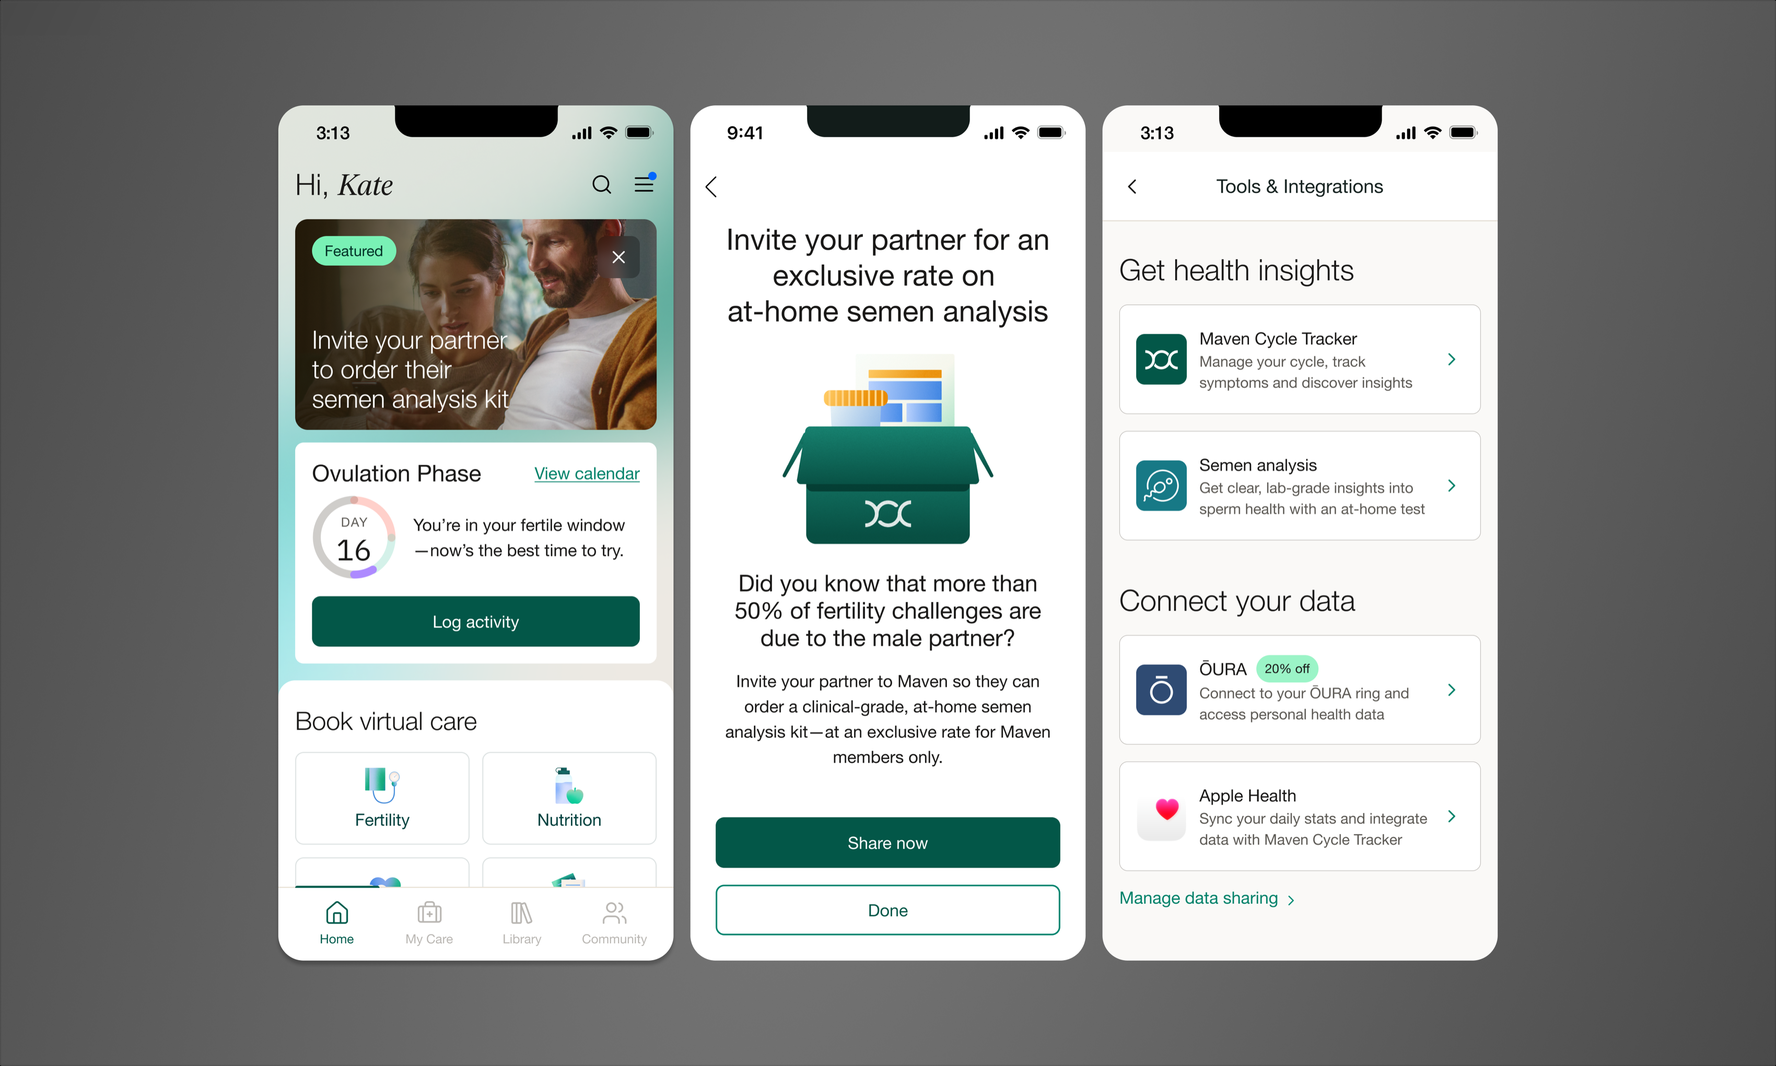
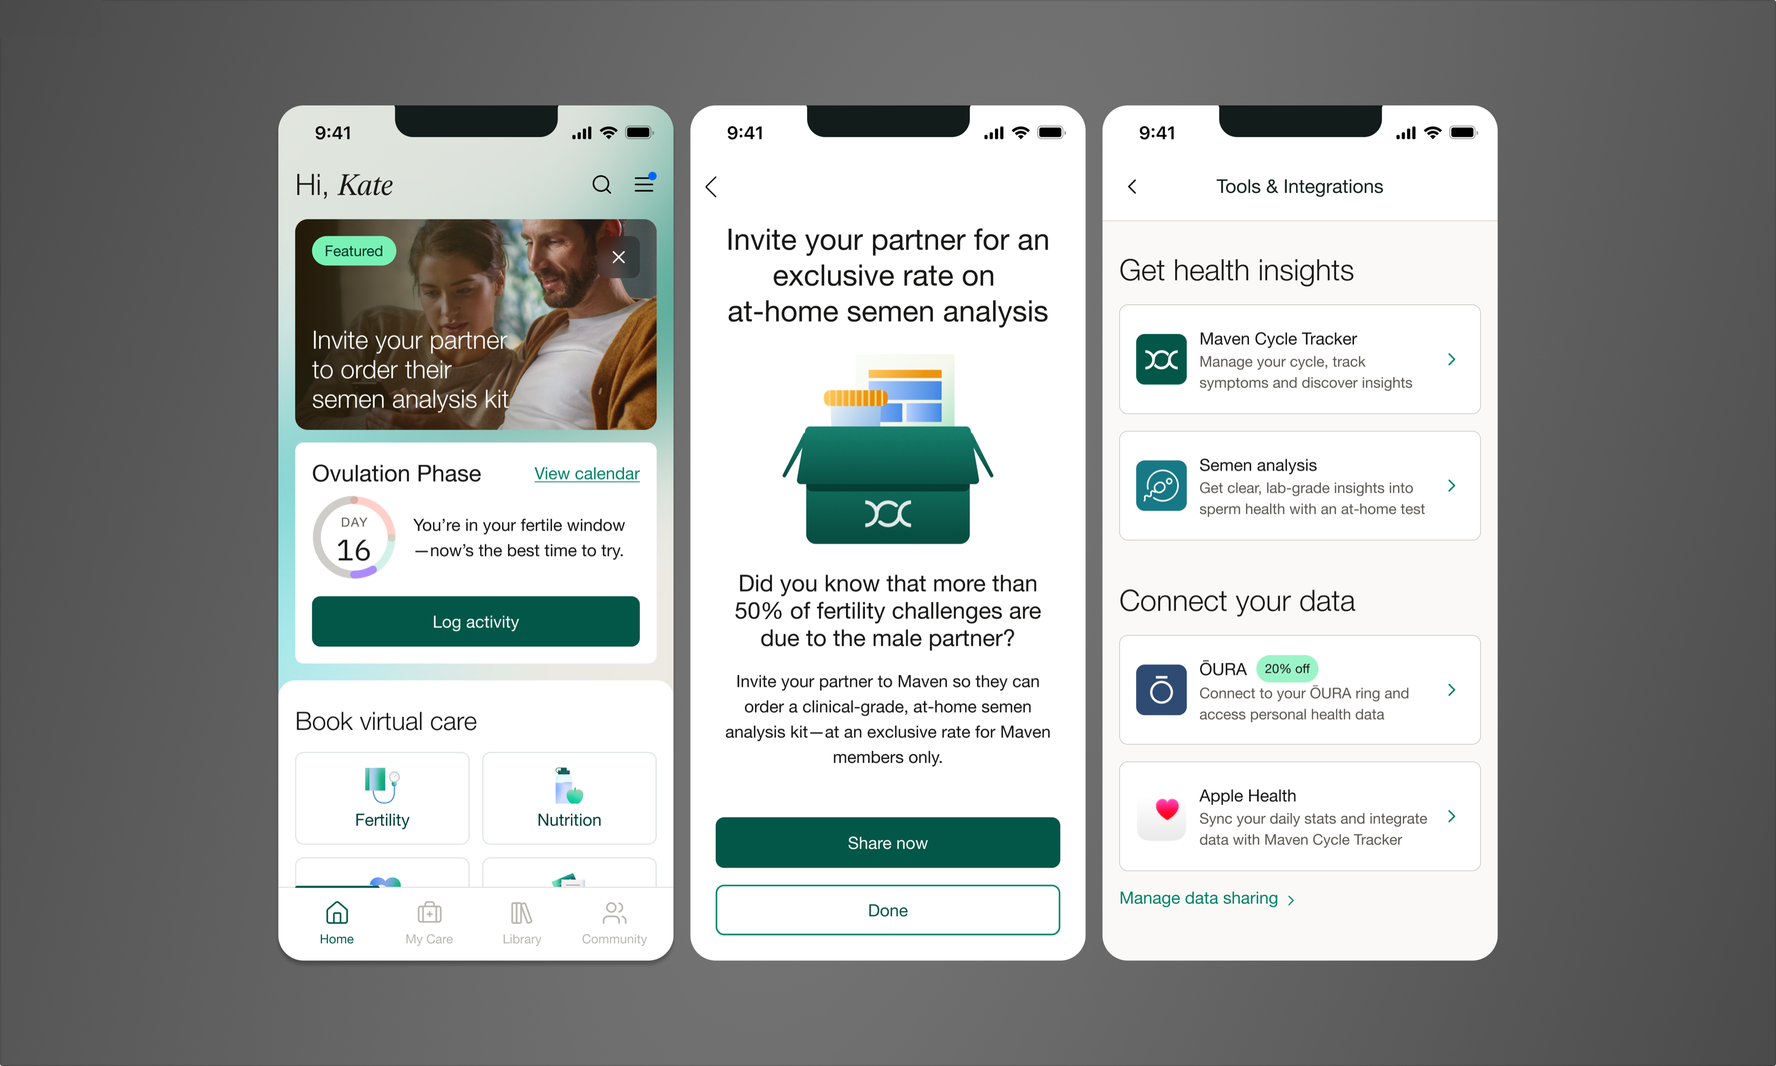
Content edits, new images, and semibold emphasis across case studies
- Support Chat: add inbox states image to Look and feel, remove Slack
  dogfooding and visual-direction paragraphs, semibold two key
  sentences (new .semibold utility, DM Sans 600 added to font import)
- Fertility Experience: rewrite Oura ovulation-status copy, add
  fertile-window calendar states image to Accuracy and sign-off,
  replace semen analysis image with updated export
- All case studies: drop timeframe from the hero subtitle (now shown
  in the stat block), replace remaining "member" references with
  "user" for consistent terminology

Changed region(s): [[0.6859, 0.0926, 0.7794, 0.1543], [0.2182, 0.0926, 0.3118, 0.1543]]

diff --git a/support-chat.html b/support-chat.html
@@ -10,7 +10,7 @@
 <link rel="apple-touch-icon" href="apple-touch-icon.png?v=2">
 <link rel="preconnect" href="https://fonts.googleapis.com">
 <link rel="preconnect" href="https://fonts.gstatic.com" crossorigin>
-<link href="https://fonts.googleapis.com/css2?family=DM+Sans:wght@400;500;700&family=IBM+Plex+Mono:wght@400;500&display=swap" rel="stylesheet">
+<link href="https://fonts.googleapis.com/css2?family=DM+Sans:wght@400;500;600;700&family=IBM+Plex+Mono:wght@400;500&display=swap" rel="stylesheet">
 <style>
   :root{
     --ink:#111111;
@@ -458,7 +458,7 @@
     <a class="cs-back" href="index.html#work">← Back to work</a>
     <span class="case-num">01</span>
     <h1>Support Chat</h1>
-    <p class="case-role">Maven Clinic · 2024–2025</p>
+    <p class="case-role">Maven Clinic</p>
     <div class="tags">
       <span class="tag">AI</span>
       <span class="tag">0→1</span>
@@ -484,13 +484,13 @@
       <p>Every support question, regardless of complexity, followed the same path: a user messaged their Care Advocate and waited. Simple questions like appointment booking or provider recommendations went through the same process as complex medical or financial ones.</p>
       <p>Behind the scenes, each message became a Zendesk ticket. The 24/7 support team triaged, tagged, escalated or self-assigned it, and replied using macros, often from someone other than the original Care Advocate. Response time ranged from under an hour to three business days.</p>
       <p>There was no self-serve option and no deflection. Every interaction depended on a human being available to pick it up, at a volume of 300,000+ tickets a year and rising. That drove up cost to serve and slowed response times even for the easy cases, while users increasingly wanted quick answers without a back-and-forth chat.</p>
-      <p>Maven had no existing model for how AI should handle conversations this trust-sensitive at this scale, but it was clearly the highest-impact opportunity to apply the technology.</p>
+      <p><span class="semibold">Maven had no existing model for how AI should handle conversations this trust-sensitive at this scale, but it was clearly the highest-impact opportunity to apply the technology.</span></p>
     </div>
     <div class="cs-section">
       <h2>Process</h2>
       <p>I led a cross-functional working group (Support, Engineering, Product, Clinical), where I tested early concepts against real scenarios before committing to a direction.</p>
       <p>From there I presented a 3-year north star vision to leadership. I then brought that vision back to what was buildable with our current design system, mapping which questions AI could resolve end-to-end versus which needed to route straight to a human based on topic.</p>
-      <div class="cs-img" style="aspect-ratio:2200/1517; margin:32px 0;"><img src="support-chat-process.png" data-full="support-chat-process-full.png" alt="Scenario walkthrough of Camilla, a Maven member with a newborn, using Support Chat: dashboard notification, message inbox, live chat modal, AI scanning her message and sending a relevant resource, and the live chat conversation"></div>
+      <div class="cs-img" style="aspect-ratio:2200/1517; margin:32px 0;"><img src="support-chat-process.png" data-full="support-chat-process-full.png" alt="Scenario walkthrough of Camilla, a Maven user with a newborn, using Support Chat: dashboard notification, message inbox, live chat modal, AI scanning her message and sending a relevant resource, and the live chat conversation"></div>
       <p>In parallel, engineering was evaluating the build approach (3rd party vs custom internal build). I designed critical pieces of the flow to visualize the tradeoffs across the different options under consideration, work that fed directly into the vendor decision.</p>
     </div>
     <div class="cs-section">
@@ -506,6 +506,7 @@
       <p>Most of the interface leaned on Maven's existing design system, extended where needed for new cases like sender distinction and AI-to-human handoff.</p>
       <p>Getting there wasn't a single pass. Entry points alone went through several rounds of exploration, from subtle inline prompts to more prominent standalone entry cards, before landing on something that converted without feeling forced on users who didn't need it.</p>
       <p>The inbox itself took even more iteration, since every version had to be tested against how it would actually feel once human messages and numerous new threads with Support Chat were sitting in the same inbox.</p>
+      <div class="cs-img" style="aspect-ratio:2200/1199; margin:32px 0;"><img src="support-chat-inbox.png" data-full="support-chat-inbox-full.png" alt="Five inbox states: the Messages list with Ask Maven entry point, the Ask Maven message list, filterable All/Providers/Maven messages view, the Featured Ask Maven card in the inbox, and the Maven Support conversation list"></div>
       <p>Landing the right tone mattered as much as the visual work, so I consulted Brand and Copy to sanity-check voice and visual direction along the way. The feature was built simultaneously across mobile and web, so I designed both in parallel from the start.</p>
     </div>
     <div class="cs-section">
@@ -513,14 +514,12 @@
       <p>I brought engineering into the design process early and often. That wasn't just walking them through visual plans, it went both ways: understanding how chat storage, keyword detection, and the AI model itself actually worked shaped decisions I made on the design side, and their callouts on feasibility shaped what I was willing to negotiate on and what I held firm on.</p>
       <div class="cs-img" style="aspect-ratio:2200/1504; margin:32px 0;"><img src="support-chat-development.png" data-full="support-chat-development-full.png" alt="MVP for Chatbot: full Figma documentation board covering the Ask Maven message inbox, start-of-chatbot states, Flow 1 (a question the bot can handle), Flow 2 (a question the bot can't handle), CSAT and closing conversations, timestamps, attachments in conversation history, the referral list form, and various loading and error states"></div>
       <p>I stayed close to quality after handoff too. I tested the tool myself with my Product Manager, asking it real questions and evaluating whether the answers were actually correct, not just whether the UI rendered right.</p>
-      <p>We also stood up a Slack channel for internal dogfooding, where Mavens could try the feature on their own accounts and flag both bugs and any answer that didn't match what they'd expect from the AI.</p>
       <p>I maintained an organized, annotated Figma file throughout as the project's source of truth, which engineering used directly as the build blueprint. Before release, I planned and led a 20-person Tigers, Paper Tigers, and Elephants pre-mortem to surface risks the team hadn't said out loud yet.</p>
     </div>
     <div class="cs-section">
       <h2>Constraints</h2>
-      <p>This was a 0→1 build inside an already-established product, not a greenfield one. Escalation logic for sensitive financial and medical questions needed to be solid, since getting it wrong had real consequences for members.</p>
+      <p>This was a 0→1 build inside an already-established product, not a greenfield one. Escalation logic for sensitive financial and medical questions needed to be solid, since getting it wrong had real consequences for users.</p>
       <p>Support and human-provider messaging had to be reconciled without confusing the user about who they were actually talking to. And Zendesk didn't disappear: tickets still existed, so I had to design the user-facing experience to account for that underlying system.</p>
-      <p>The visual direction had its own challenges. An AI agent arguably needed to look and feel distinct from the rest of the product, but the brand wasn't ready to commit to that distinction yet, so the MVP had to read as new without reading as a departure.</p>
       <p>This was also a high-visibility project. Executive leadership was following it, operations stakeholders were involved throughout, a large engineering team was building it, it shipped across three platforms at once, and the data running through it was sensitive. That added a level of scrutiny to most decisions.</p>
     </div>
     <div class="cs-section">
@@ -530,7 +529,7 @@
     </div>
     <div class="cs-section" style="border-bottom:none;">
       <h2>Outcome</h2>
-      <p>The team shipped a limited internal release first to validate AI-handled and human-handoff logic before full rollout. In 2025, Support Chat shipped to all users in production with 91% deflection across 12,000+ questions in the first four months.</p>
+      <p>The team shipped a limited internal release first to validate AI-handled and human-handoff logic before full rollout. <span class="semibold">In 2025, Support Chat shipped to all users in production with 91% deflection across 12,000+ questions in the first four months.</span></p>
     </div>
 
     <div class="cs-projnav">

diff --git a/fertility-experience.html b/fertility-experience.html
@@ -10,7 +10,7 @@
 <link rel="apple-touch-icon" href="apple-touch-icon.png?v=2">
 <link rel="preconnect" href="https://fonts.googleapis.com">
 <link rel="preconnect" href="https://fonts.gstatic.com" crossorigin>
-<link href="https://fonts.googleapis.com/css2?family=DM+Sans:wght@400;500;700&family=IBM+Plex+Mono:wght@400;500&display=swap" rel="stylesheet">
+<link href="https://fonts.googleapis.com/css2?family=DM+Sans:wght@400;500;600;700&family=IBM+Plex+Mono:wght@400;500&display=swap" rel="stylesheet">
 <style>
   :root{
     --ink:#111111;
@@ -457,7 +457,7 @@
     <a class="cs-back" href="index.html#work">← Back to work</a>
     <span class="case-num">02</span>
     <h1>Fertility Experience</h1>
-    <p class="case-role">Maven Clinic · 2025–2026</p>
+    <p class="case-role">Maven Clinic</p>
     <div class="tags">
       <span class="tag">Oura</span>
       <span class="tag">Partnerships</span>
@@ -511,7 +511,7 @@
 
     <div class="cs-section" style="border-bottom:none; padding-bottom:0;">
       <h2>Initiative 2: Oura Cycle Data Integration</h2>
-      <p>Maven kicked off a partnership with Oura in 2025 to bring wearable data into the platform. I picked up that work and took it further as end-to-end designer, building a member-facing and provider-facing integration that pulls Oura's reproductive cycle data directly into Maven's Cycle Tracker. Oura doesn't have a dedicated fertility or symptom tracker. Maven does.</p>
+      <p>Maven kicked off a partnership with Oura in 2025 to bring wearable data into the platform. I picked up that work and took it further as end-to-end designer, building a user-facing and provider-facing integration that pulls Oura's reproductive cycle data directly into Maven's Cycle Tracker. Oura doesn't have a dedicated fertility or symptom tracker. Maven does.</p>
       <p>This gave users a way to combine Oura's biometric data with the tracking experience they were already using to try to conceive. The integration is fully built and QA'd, awaiting release.</p>
 
       <h3>The problem</h3>
@@ -523,13 +523,12 @@
     </div>
     <div class="cs-img" style="aspect-ratio:2195/1220; margin:32px 0;"><img src="oura-cycle-integration.png" data-full="oura-cycle-integration.png" alt="Four phone mockups of the Maven x Oura cycle insights update prompt, Oura calendar view with predicted period and fertile window, February 14 cycle day detail sheet, and Oura settings"></div>
     <div class="cs-section" style="padding-top:0;">
-      <p>Ovulation status, made unambiguous. The core challenge was making sure Fertile Window, Predicted Ovulation, and Confirmed Ovulation were crystal clear: what each one meant, how it showed up as icons in the calendar view, and how it was explained in plain language in the bottom sheet, all while clearly tying the data back to Oura as the source. I designed this new visual and content language to sit naturally inside Maven's existing design system, without a full redesign of Cycle Tracker or the calendar. Since this introduced concepts users hadn't seen before, I ran comprehension testing directly rather than assuming it would land, and all 20 users tested correctly interpreted what the visuals were meant to convey.</p>
-      <p>Settings. Adding the integration meant new controls users needed to manage, so I took apart the existing Cycle Tracker settings page and rebuilt it to accommodate them cleanly.</p>
-      <p>Provider view in MPractice. Users weren't the only audience. I designed the equivalent data visualization inside MPractice, Maven's proprietary EMR, where providers already view cycle data. Providers now see the same Oura-sourced cycle data their patient sees, giving care teams the same complete picture during appointments and clinical decision-making.</p>
-      <p>Getting people to connect. None of this mattered if users didn't know it existed. I designed the promotional action sheets and modals that introduced the integration to members who hadn't yet connected their Oura account, making the case for why they'd want to.</p>
+      <p>I made ovulation status unambiguous across the product: Fertile Window, Predicted Ovulation, and Confirmed Ovulation each got clear icons, plain-language explanations, and visible Oura sourcing, all fitted into Maven's existing design system rather than a full redesign. Because these were new concepts, I validated comprehension directly: all 20 users tested interpreted them correctly.</p>
+      <p>From there, I extended the work across the full experience: rebuilt settings to handle the new controls, brought the same data visualization into MPractice so providers see what their patients see, and designed the promotional moments that introduced the integration to users who hadn't connected yet.</p>
 
       <h3>Accuracy and sign-off</h3>
       <p>Cycle Tracker already pulls from multiple sources: user-logged symptoms, Apple Health, and now Oura. I partnered closely with backend engineering to define how conflicting data between sources would be resolved, and how that resolution would be visualized so users wouldn't see contradictory information with no explanation.</p>
+      <div class="cs-img" style="aspect-ratio:2200/939; margin:32px 0;"><img src="fertility-fertile-window.png" data-full="fertility-fertile-window-full.png" alt="Six calendar states showing how the fertile window and ovulation prediction resolve conflicting data: during the fertile window before estimated ovulation, day of predicted ovulation before and after confirmation, prediction unknown, and unable to estimate"></div>
       <p>Every part of the design had to meet the bar Oura needed to feel comfortable putting their name on the release, so I presented the work to their team for multiple rounds of feedback and approval.</p>
 
       <h3>Status</h3>
@@ -554,7 +553,7 @@
     </div>
 
     <div class="cs-section" style="border-bottom:none;">
-      <p>Beyond shipping these features, I built the first functional prototype of the entire Fertility homepage experience in Claude Code. It included a configurable control panel so product, engineering, and business stakeholders could see a real, 1:1 view of any user state, from a newly onboarded member on cycle day 10 to someone in fertility treatment within a specific client org, and many scenarios in between. I set it up as a project in the design team's GitHub repo and kept it updated, so other designers could pull it down and build from it instead of starting from zero. This helped tie all these projects together into a cohesive fertility homepage experience and strategy.</p>
+      <p>Beyond shipping these features, I built the first functional prototype of the entire Fertility homepage experience in Claude Code. It included a configurable control panel so product, engineering, and business stakeholders could see a real, 1:1 view of any user state, from a newly onboarded user on cycle day 10 to someone in fertility treatment within a specific client org, and many scenarios in between. I set it up as a project in the design team's GitHub repo and kept it updated, so other designers could pull it down and build from it instead of starting from zero. This helped tie all these projects together into a cohesive fertility homepage experience and strategy.</p>
     </div>
 
     <div class="cs-projnav">

diff --git a/pcos-nutrition-module.html b/pcos-nutrition-module.html
@@ -10,7 +10,7 @@
 <link rel="apple-touch-icon" href="apple-touch-icon.png?v=2">
 <link rel="preconnect" href="https://fonts.googleapis.com">
 <link rel="preconnect" href="https://fonts.gstatic.com" crossorigin>
-<link href="https://fonts.googleapis.com/css2?family=DM+Sans:wght@400;500;700&family=IBM+Plex+Mono:wght@400;500&display=swap" rel="stylesheet">
+<link href="https://fonts.googleapis.com/css2?family=DM+Sans:wght@400;500;600;700&family=IBM+Plex+Mono:wght@400;500&display=swap" rel="stylesheet">
 <style>
   :root{
     --ink:#111111;
@@ -437,7 +437,7 @@
     <a class="cs-back" href="index.html#work">← Back to work</a>
     <span class="case-num">03</span>
     <h1>Conditions-based experiences</h1>
-    <p class="case-role">Maven Clinic · 2026</p>
+    <p class="case-role">Maven Clinic</p>
     <div class="tags">
       <span class="tag">0→1 Pathway</span>
       <span class="tag">Prototyping</span>
@@ -459,12 +459,12 @@
     </div>
     <div class="cs-section">
       <h2>Problem</h2>
-      <p>Maven's Fertility experience was largely generic. A member with PCOS and a member with no diagnosis or suspected condition saw the same homepage, even though PCOS has a well-established, treatment-free management lever: nutrition.</p>
+      <p>Maven's Fertility experience was largely generic. A user with PCOS and a user with no diagnosis or suspected condition saw the same homepage, even though PCOS has a well-established, treatment-free management lever: nutrition.</p>
       <p>For PCOS specifically, dietary changes are one of the most effective non-treatment ways to manage the condition, but Maven wasn't doing anything to help users act on that, or to signal that Maven understood their condition was different from a general fertility case. This mattered beyond one feature. Maven's broader fertility strategy is moving toward condition-based care pathways instead of one-size-fits-all guidance. [Read more about Maven's <a href="https://www.mavenclinic.com/post/the-next-chapter-in-fertility-care-starts-before-treatment" target="_blank" rel="noopener">strategy</a> driving this project.]</p>
     </div>
     <div class="cs-section">
       <h2>Process</h2>
-      <p>I designed a homepage module that rotated content over a weekly cycle each time a member logged in. Rotations mixed formats deliberately: some days surfaced an assessment question through a bottom sheet, others prompted a loggable behavior (like a short walk after a meal), and others delivered supportive or educational content. The goal was to make daily engagement feel varied, while quietly capturing data on what users were doing and how they felt about managing their condition.</p>
+      <p>I designed a homepage module that rotated content over a weekly cycle each time a user logged in. Rotations mixed formats deliberately: some days surfaced an assessment question through a bottom sheet, others prompted a loggable behavior (like a short walk after a meal), and others delivered supportive or educational content. The goal was to make daily engagement feel varied, while quietly capturing data on what users were doing and how they felt about managing their condition.</p>
       <p>Alongside the module, I designed a story-card carousel, an Instagram Stories-style format, with 7 illustrated card sets going deep on individual nutrition topics (protein was one). This was meant to be a more interactive, higher-retention alternative to a static article for users who wanted to go beyond the daily module.</p>
       <p>The hardest part was the assessment bottom sheets. They needed to plug into Maven's existing assessment infrastructure, which was tightly coupled to legacy backend architecture never built for this use case. I worked closely with engineering to unwind that constraint and find the simplest path to ship without rebuilding the system underneath it.</p>
       <p>That tradeoff shaped scope: for this version, questions were limited to checkbox/multiselect and radio/single-select formats, and result screens stayed simple. I scoped and proposed a future version of the assessment UI that supports more question types and more visually developed result pages.</p>

diff --git a/patients-followed.html b/patients-followed.html
@@ -10,7 +10,7 @@
 <link rel="apple-touch-icon" href="apple-touch-icon.png?v=2">
 <link rel="preconnect" href="https://fonts.googleapis.com">
 <link rel="preconnect" href="https://fonts.gstatic.com" crossorigin>
-<link href="https://fonts.googleapis.com/css2?family=DM+Sans:wght@400;500;700&family=IBM+Plex+Mono:wght@400;500&display=swap" rel="stylesheet">
+<link href="https://fonts.googleapis.com/css2?family=DM+Sans:wght@400;500;600;700&family=IBM+Plex+Mono:wght@400;500&display=swap" rel="stylesheet">
 <style>
   :root{
     --ink:#111111;
@@ -445,7 +445,7 @@
     <a class="cs-back" href="index.html#work">← Back to work</a>
     <span class="case-num">04</span>
     <h1>Patients Followed</h1>
-    <p class="case-role">Signify Health · 2022</p>
+    <p class="case-role">Signify Health</p>
     <div class="tags">
       <span class="tag">B2B</span>
       <span class="tag">User Research</span>

diff --git a/case-study.css b/case-study.css
@@ -17,6 +17,10 @@
   margin:36px 0 12px;
 }
 .cs-section h3:first-of-type{margin-top:0;}
+.cs-section p .semibold{
+  font-weight:600;
+  color:var(--ink);
+}
 
 .cs-stats{
   display:flex;
